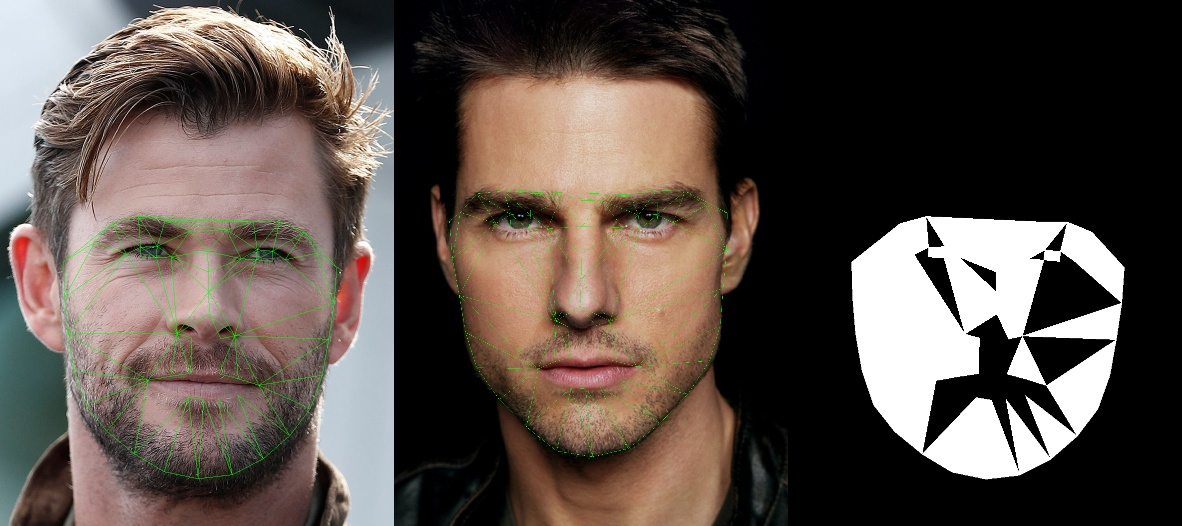
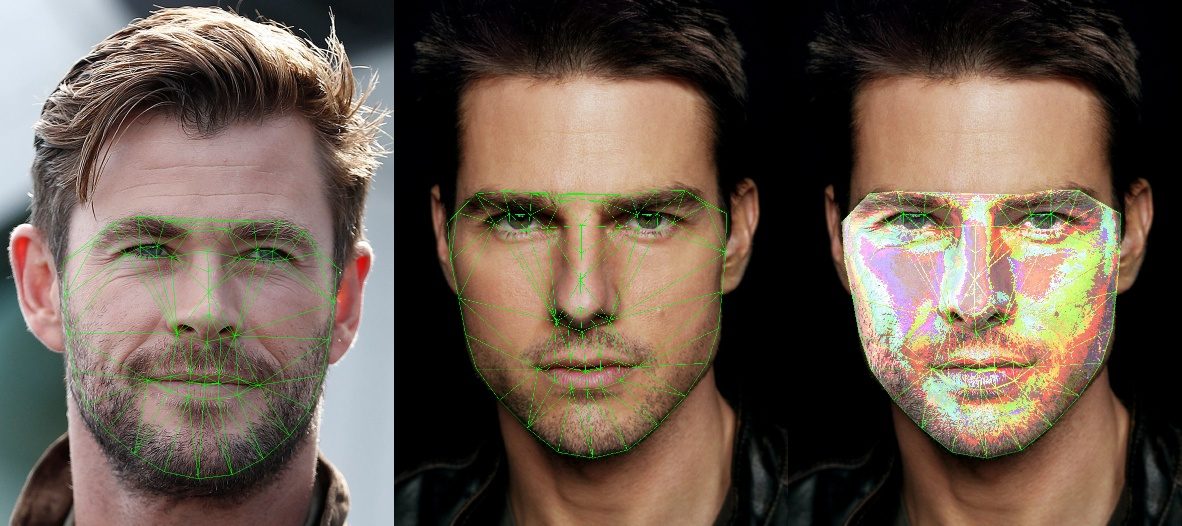
after warping traingles

diff --git a/utils/swap.py b/utils/swap.py
@@ -10,7 +10,7 @@ import time
 class SWAP:
 
     visualize = False
-    img_path = '/home/viraj-uk/HUSTLE/FACE_SWAPPING/images/write/1'
+    img_path = '/home/viraj-uk/HUSTLE/FACE_SWAPPING/images'
 
     def __init__(self, img1, img2):
         self.img1, self.img2 = self.init_images(img1, img2)
@@ -50,25 +50,25 @@ class SWAP:
     def show_images(self):
 
         # row_1 = [self.img1, self.img2, self.mask1, self.intermediate]
-        row_1 = [self.img1, self.img2]
+        row_1 = [self.img1, self.img2, self.show1, self.show2]
         # row_2 = [self.mask1, self.mask2]
 
         stacked_image = self.imgStack.stack_images(0.5, (row_1))
-        # cv2.imshow('Stacked Image', stacked_image)
+        cv2.imshow('Stacked Image', stacked_image)
         cv2.imwrite(os.path.join(self.img_path, 'result.jpg'), stacked_image)
 
         cv2.waitKey(0)
         cv2.destroyAllWindows()
 
-    def show_animation(self, iter):
-
-        row_1 = [self.img1, self.img2]
-        # row_1 = [self.img1, self.img2]
-        # row_2 = [self.mask1, self.mask2]
-
-        stacked_image = self.imgStack.stack_images(0.5, (row_1))
-        # cv2.imshow('Stacked Image', stacked_image)
-        cv2.imwrite(os.path.join(self.img_path, str(iter) + ".jpg"), stacked_image)
+    # def show_animation(self, iter):
+    #
+    #     row_1 = [self.img1, self.img2]
+    #     # row_1 = [self.img1, self.img2]
+    #     # row_2 = [self.mask1, self.mask2]
+    #
+    #     stacked_image = self.imgStack.stack_images(0.5, (row_1))
+    #     # cv2.imshow('Stacked Image', stacked_image)
+    #     cv2.imwrite(os.path.join(self.img_path, str(iter) + ".jpg"), stacked_image)
 
         # cv2.waitKey(0)
 
@@ -319,6 +319,75 @@ class SWAP:
 
             self.ordered_triangles[i] = [triangle_pt1[0][0], triangle_pt2[0][0], triangle_pt3[0][0]]
 
+    def my(self):
+        # landmark points for faces
+        LandmarkPoints = namedtuple('LandmarkPoints', ['first', 'second'])
+        self.landmarks_points = LandmarkPoints(self.__face_landmarks(self.img1_gray), self.__face_landmarks(self.img2_gray))
+
+        mask1, mask2 = None, None
+        self.first_order_triangles()
+        color = (0, 255, 0)
+        for key in self.ordered_triangles:
+
+            pt1, pt2, pt3 = self.ordered_triangles[key]
+            points = np.array([[self.landmarks_points.first[pt1], self.landmarks_points.first[pt2], self.landmarks_points.first[pt3]]], np.int32)
+
+            cv2.line(self.img1, self.landmarks_points.first[pt1], self.landmarks_points.first[pt2], color, 1)
+            cv2.line(self.img1, self.landmarks_points.first[pt2], self.landmarks_points.first[pt3], color, 1)
+            cv2.line(self.img1, self.landmarks_points.first[pt3], self.landmarks_points.first[pt1], color, 1)
+
+            points2 = np.array([[self.landmarks_points.second[pt1], self.landmarks_points.second[pt2], self.landmarks_points.second[pt3]]], np.int32)
+
+            cv2.line(self.result, self.landmarks_points.second[pt1], self.landmarks_points.second[pt2], color, 1)
+            cv2.line(self.result, self.landmarks_points.second[pt2], self.landmarks_points.second[pt3], color, 1)
+            cv2.line(self.result, self.landmarks_points.second[pt3], self.landmarks_points.second[pt1], color, 1)
+
+            M = cv2.getAffineTransform(np.float32(points), np.float32(points2))
+
+            mask1 = np.zeros((self.img1.shape[0], self.img1.shape[1]), np.uint8)
+            mask1 = cv2.fillPoly(mask1, points, (255))
+
+            mask2 = cv2.warpAffine(mask1, M, (self.img1.shape[1], self.img1.shape[0]))
+            warped = cv2.warpAffine(self.img1, M, (self.img1.shape[1], self.img1.shape[0]))
+            # print(mask2.shape)
+
+            # cv2.imshow('temp', mask1)
+            # cv2.imshow('temp2', mask2)
+            # cv2.imshow('warped', warped)
+
+            # mask1 = cv2.cvtColor(mask1, cv2.COLOR_GRAY2RGB)
+
+            # mask1[mask1 > 0] = 255
+            # print(type(mask1))
+            # print(mask1.shape)
+            # print(self.img1.shape)
+
+            # self.img1 = cv2.bitwise_and(self.img1, self.img1, mask=mask1)
+            warped_mask = cv2.bitwise_and(warped, warped, mask=mask2)
+
+
+
+            # self.img2 = cv2.add(self.img2, warped_mask)
+            self.img2 = cv2.bitwise_or(self.img2, warped_mask)
+
+            # self.show2 = cv2.warpAffine(self.mask1, M, (self.mask2.shape[1], self.mask2.shape[0]))
+
+            if 2 == key:
+                pass
+                # break
+
+
+
+        row_1 = [self.img1, self.result, self.img2]
+
+        stacked_image = self.imgStack.stack_images(0.5, (row_1))
+        cv2.imwrite(os.path.join(self.img_path, 'result.jpg'), stacked_image)
+        cv2.imshow('Stacked Image', stacked_image)
+
+        cv2.waitKey(0)
+        cv2.destroyAllWindows()
+
+
     def swap(self):
 
         # landmark points for faces
@@ -332,11 +401,11 @@ class SWAP:
 
             pt1, pt2, pt3 = self.ordered_triangles[key]
 
-            triangle1 = np.array([self.landmarks_points.first[pt1], self.landmarks_points.first[pt2], self.landmarks_points.first[pt3]], np.int32)
-            rect1 = cv2.boundingRect(triangle1)
-            (x, y, w, h) = rect1
+            # triangle1 = np.array([self.landmarks_points.first[pt1], self.landmarks_points.first[pt2], self.landmarks_points.first[pt3]], np.int32)
+            # rect1 = cv2.boundingRect(triangle1)
+            # (x, y, w, h) = rect1
 
-            cropped_triangle = self.img1[y: y + h, x:x + w]
+            # cropped_triangle = self.img1[y: y + h, x:x + w]
             points = np.array([[self.landmarks_points.first[pt1], self.landmarks_points.first[pt2], self.landmarks_points.first[pt3]]], np.int32)
 
             cv2.line(self.img1, self.landmarks_points.first[pt1], self.landmarks_points.first[pt2], color, 1)
@@ -356,9 +425,27 @@ class SWAP:
             cv2.line(self.img2, self.landmarks_points.second[pt2], self.landmarks_points.second[pt3], color, 1)
             cv2.line(self.img2, self.landmarks_points.second[pt3], self.landmarks_points.second[pt1], color, 1)
 
+            self.mask1 = cv2.fillPoly(self.mask1, points, (255))
+
             M = cv2.getAffineTransform(np.float32(points), np.float32(points2))
             # print(M)
-            warped_triangle = cv2.warpAffine(cropped_triangle, M, (w, h))
+
+            # self.mask1 = cv2.cvtColor(self.mask1, cv2.COLOR_BGR2GRAY)
+            # print(self.mask1.shape)
+
+            self.show1 = cv2.bitwise_and(self.img1, self.img1, mask=self.mask1)
+            self.show2 = cv2.warpAffine(self.mask1, M, (self.mask2.shape[1], self.mask2.shape[0]))
+
+
+            print(self.img2.shape)
+            print(self.show2.shape)
+            print(self.mask2.shape)
+
+            # cv2.imshow('temp', self.show2)
+            # self.show2 = cv2.add(self.img2, self.show2)
+            # self.show2 = cv2.bitwise_and(self.img2, self.img2, mask=self.mask2)
+
+            print(self.show2.shape)
 
             # print(w, h)
             # print(warped_triangle.shape)
@@ -379,12 +466,12 @@ class SWAP:
             # points = [[[252, 508], [224, 446], [281, 494], [224, 446], [252, 508], [189, 484]]]
 
             # print(points)
-            cv2.fillPoly(self.mask1, points,(255))
+            # cv2.fillPoly(self.mask1, points,(255))
 
             # print(self.mask1.shape)
 
             # print(mask.shape)
-            cv2.bitwise_and(self.img1, self.img1, mask=self.mask1)
+            # cv2.bitwise_and(self.img1, self.img1, mask=self.mask1)
             # self.intermediate = warped_triangle
 
             # cv2.imwrite(os.path.join(self.img_path, str(key)+'result.jpg'), warped_triangle)
@@ -419,9 +506,9 @@ class SWAP:
 
             # time.sleep(0.5)
 
-            self.show_animation(key)
+            # self.show_animation(key)
 
-            if 110 == key:
+            if 0 == key:
                 # cv2.destroyAllWindows()
                 break
 

diff --git a/index2.py b/index2.py
@@ -9,7 +9,7 @@ img2 = 'images/tom-2.jpg'
 SWAP.enable_visualization()
 swap = SWAP(img1, img2)
 
-swap.swap()
+swap.my()
 
 # swap.test()
 
